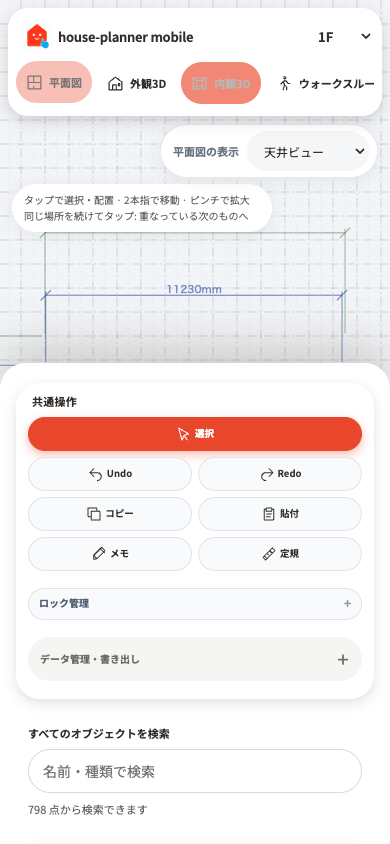
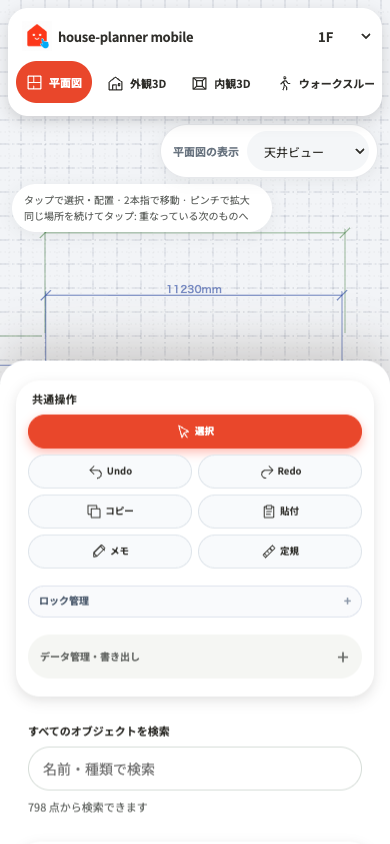
天井の選択を天井の高さで見せ、天井範囲にテクスチャを貼れるようにする
**天井範囲を選ぶと、枠と「選択中」の札だけが床に出ていた。** 3Dの選択表示は
getSelectionBox3D が作る箱から枠・札・移動ギズモを組み立てるが、天井範囲を
ほかのアイテムと同じ「床から elev」の式で扱っていたため、天井を選んでいるのに
選択のUIが床に残っていた。

- 天井範囲だけは天井面から箱を作る。段差の立ち上がり(天井面 ⇔ 段差の面)を包む
  厚みにし、段差が浅いときも掴めるよう最低60mmを残す。
- 「選択中」の札は範囲の下へ吊る。天井のものは下から見るので、上に出すと
  天井裏に隠れて読めない。移動ギズモも下側へ出す(掴む矢印が面の向こう側に
  行かないように)。ドラッグの基準面も同じ位置にそろえた(ずれると掴んだ矢印と
  動く量が食い違う)。

**天井範囲にテクスチャを設定できるようにした。** 天井を凝る施主ほど仕上げを
選ぶので、色だけでは足りない。

- 設定欄に「仕上げテクスチャ」(画像の選択・解除・左右反転・上下反転)を追加。
  部屋の天井仕上げと同じ道具立て(selectedTextureUploadHtml / uploadTex)を使う。
- 画像は色より優先する(部屋の天井仕上げと同じ決まり)。タイルの大きさも部屋の
  天井と同じ CEILING_TEXTURE_TILE_M。ここで別の数を持ち込むと、同じ画像が
  段差の中だけ違う大きさで出る。
- 段差の立ち上がり(見付け)は色のまま。細い帯へ画像を引き伸ばすと柄が溶けて、
  かえって納まりが読めなくなる。

検査(tools/tests/ceiling-designer.browser.mjs):
- 選択枠の上端が天井面にあること、厚みが段差と同じこと、床のそばに出ていないこと。
  天井範囲の枝を外すと「上端 1.18m / 天井面 2.93m」で落ちることを確認。
- 天井範囲の面に画像が乗ること、立ち上がりには乗らないこと、設定欄に入口が
  あること、保存されること。テクスチャの枝を外すと落ちることを確認。

diff --git a/assets/js/ceiling-designer.js b/assets/js/ceiling-designer.js
@@ -7,15 +7,33 @@ function fixtures(){return DATA.items.filter(it=>it.floor===ST.floor&&(isLightIt
 function ceilingGroup(r,ceilY,mat,holes,profile){
  if(profile||!areas(r).length)return buildRoomCeilingMesh(r,ceilY,mat,holes,profile);
  const inset=typeof usesFinishedHeightModel==='function'&&usesFinishedHeightModel()?0:.012;
+ // 天井範囲の見えがかり。テクスチャを設定したらそれを貼り、無ければ色で塗る
+ // (部屋の天井仕上げと同じ決まり: 画像が優先)。タイルの大きさも部屋の天井と
+ // 同じ CEILING_TEXTURE_TILE_M。ここで別の数を持ち込むと、同じ画像が段差の
+ // 中だけ違う大きさで出る。
+ const faceMaterial=(base,a,w,d)=>{
+  const m=base.clone();m.side=THREE.DoubleSide;
+  if(a.texture&&typeof getTexture3D==='function'){
+   const tex=cloneRepeatReadyTexture(getTexture3D(a.texture));
+   if(tex){tex.wrapS=tex.wrapT=THREE.RepeatWrapping;
+    setTextureRepeatNoDistort(tex,w,d,CEILING_TEXTURE_TILE_M);
+    applyTextureFlip(tex,{textureFlipX:a.textureFlipX,textureFlipY:a.textureFlipY});
+    m.map=tex;m.color.set(0xffffff);return m;}
+  }
+  m.map=null;m.color.set(a.color||'#eee8dd');return m;
+ };
  const group=new THREE.Group();group.userData={b:true,ceiling:true,roomId:r.id};const aa=areas(r);const all=(holes||[]).slice();
  aa.forEach(a=>all.push([{x:(r.x+a.x)*U,z:(r.y+a.y)*U},{x:(r.x+a.x+a.w)*U,z:(r.y+a.y)*U},{x:(r.x+a.x+a.w)*U,z:(r.y+a.y+a.d)*U},{x:(r.x+a.x)*U,z:(r.y+a.y+a.d)*U}]));
  const base=buildRoomCeilingMesh(r,ceilY,mat,all,null);if(active())mark3DSelectable(base,r,'room');group.add(base);
  aa.forEach(a=>{
-  const m=mat.clone();m.map=null;m.color.set(a.color||'#eee8dd');m.side=THREE.DoubleSide;
+  const m=faceMaterial(mat,a,a.w*U,a.d*U);
+  // 段差の立ち上がり(見付け)は色のまま。面に貼った画像を細い帯へ引き伸ばすと
+  // 柄が溶けて、かえって納まりが読めなくなる。
+  const fascia=m.map?faceMaterial(mat,{color:a.color},0,0):m;
   const x=(r.x+a.x+a.w/2)*U,z=(r.y+a.y+a.d/2)*U,w=a.w*U,d=a.d*U,y=ceilY+a.offset*U-inset;
   const face=new THREE.Mesh(new THREE.PlaneGeometry(w,d),m);face.rotation.x=Math.PI/2;face.position.set(x,y,z);face.userData={b:true,ceiling:true,roomId:r.id,ceilingAreaId:a.id};const ref=DATA.items.find(it=>it.type==='ceiling-area'&&it.id===a.id);if(ref)mark3DSelectable(face,ref,'item');group.add(face);
   const h=Math.abs(a.offset)*U,mid=(ceilY-inset+y)/2;
-  [[x-w/2,z,.006,d],[x+w/2,z,.006,d],[x,z-d/2,w,.006],[x,z+d/2,w,.006]].forEach(p=>{const side=new THREE.Mesh(new THREE.BoxGeometry(p[2],h,p[3]),m);side.position.set(p[0],mid,p[1]);side.userData={b:true,ceiling:true,roomId:r.id,ceilingAreaId:a.id};if(ref)mark3DSelectable(side,ref,'item');group.add(side);});
+  [[x-w/2,z,.006,d],[x+w/2,z,.006,d],[x,z-d/2,w,.006],[x,z+d/2,w,.006]].forEach(p=>{const side=new THREE.Mesh(new THREE.BoxGeometry(p[2],h,p[3]),fascia);side.position.set(p[0],mid,p[1]);side.userData={b:true,ceiling:true,roomId:r.id,ceilingAreaId:a.id};if(ref)mark3DSelectable(side,ref,'item');group.add(side);});
  });return group;
 }
 function active(){return !!ST.ceilingView&&(ST.view==='2d'||ST.view==='3d-int');}
@@ -64,7 +82,12 @@ function props(it){
  document.getElementById('props-title').textContent='天井範囲 の設定';
  let html=selectedLockControlHtml(it)+'<div class="ph">天井の範囲</div>';
  [['x','X位置'],['y','Y位置'],['w','幅'],['d','奥行'],['offset','段差（下げは負）']].forEach(([key,label])=>{html+='<div class="pr"><label class="pl">'+label+' mm</label><input class="pi" data-ceiling-field="'+key+'" type="number" step="10" value="'+(Math.round(it[key]*100)/100)+'" onchange="updateSelectedProp(\''+key+'\',Number(this.value))"></div>';});
- html+='<div class="pr"><label class="pl">仕上げ色</label><input class="pi" type="color" value="'+(it.color||'#e4ddd1')+'" onchange="updateSelectedProp(\'color\',this.value)"></div><p class="model-finish-note">通常のハンドルで移動・サイズ変更できます。照明の取付高さは天井の変更に追従します。</p>'+selectedDeleteButtonHtml();
+ html+='<div class="pr"><label class="pl">仕上げ色</label><input class="pi" type="color" value="'+(it.color||'#e4ddd1')+'" onchange="updateSelectedProp(\'color\',this.value)"></div>'
+  +selectedTextureUploadHtml(it,'仕上げテクスチャ')
+  +(it.texture?'<button class="pbtn sec" onclick="updateSelectedProp(\'texture\',null)">テクスチャ解除</button>':'')
+  +selectedTextureFlipControlsHtml(it)
+  +(it.texture?'<div class="lock-status-note">テクスチャを設定しているあいだ、仕上げ色は段差の立ち上がりにだけ効きます（部屋の天井仕上げと同じ決まりです）。</div>':'')
+  +'<p class="model-finish-note">通常のハンドルで移動・サイズ変更できます。照明の取付高さは天井の変更に追従します。</p>'+selectedDeleteButtonHtml();
  setPropsBodyHtml(document.getElementById('props-body'),html,it);
  const name=document.getElementById('mob-prop-name');if(name)name.textContent='天井範囲';
  const size=document.getElementById('mob-prop-size');if(size)size.textContent=it.w+' × '+it.d+' mm';

diff --git a/index.html b/index.html
@@ -6230,7 +6230,9 @@ function add3DSelectionMarkerFor(target,primary){
   var labelTex=new THREE.CanvasTexture(labelCanvas);
   labelTex.colorSpace=THREE.SRGBColorSpace;
   var label=new THREE.Sprite(new THREE.SpriteMaterial({map:labelTex,transparent:true,depthTest:false}));
-  label.position.set(center.x,box.max.y+0.42,center.z);
+  // 天井に付くものは下から見る。札を上に出すと天井裏に隠れて読めない。
+  var labelY=(target.type==='ceiling-area')?box.min.y-0.42:box.max.y+0.42;
+  label.position.set(center.x,labelY,center.z);
   label.scale.set(1.15,0.38,1);
   label.userData={b:true,selectionHelper:true};
   group.add(label);
@@ -6253,7 +6255,9 @@ function add3DMoveGizmo(){
   if(box.isEmpty()) return;
   var center=box.getCenter(new THREE.Vector3());
   var size=box.getSize(new THREE.Vector3());
-  center.y=Math.max(box.max.y+0.08,center.y);
+  // 天井のものは下へ、それ以外は上へ。掴む矢印が面の向こう側に出ないようにする。
+  center.y=(ST.selected.type==='ceiling-area')
+    ? Math.min(box.min.y-0.08,center.y) : Math.max(box.max.y+0.08,center.y);
   var group=new THREE.Group();
   group.userData={b:true,moveGizmo:true};
   var len=Math.max(0.55,Math.min(1.35,Math.max(size.x,size.y,size.z)*0.55));
@@ -6300,7 +6304,9 @@ function getGizmoDragBasis(axis,ref){
   var box=getSelectionBox3D(ref);
   if(box.isEmpty()) return null;
   var center=box.getCenter(new THREE.Vector3());
-  center.y=Math.max(box.max.y+0.08,center.y);
+  // add3DMoveGizmo と同じ位置。ここがずれると、掴んだ矢印と動く量が食い違う。
+  center.y=(ref&&ref.type==='ceiling-area')
+    ? Math.min(box.min.y-0.08,center.y) : Math.max(box.max.y+0.08,center.y);
   var dir=axis==='x'?new THREE.Vector3(1,0,0):(axis==='z'?new THREE.Vector3(0,0,1):new THREE.Vector3(0,1,0));
   var rect=ren.domElement.getBoundingClientRect();
   function project(v){
@@ -6413,6 +6419,23 @@ function getSelectionBox3D(ref){
     box.set(
       new THREE.Vector3(ref.x*U,ry,(ref.y||0)*U),
       new THREE.Vector3((ref.x+ref.w)*U,ry+0.12,(ref.y+ref.d)*U)
+    );
+    return box;
+  }
+  if(ref.type==='ceiling-area'){
+    // 天井範囲は天井面に貼り付く。ほかのアイテムと同じ「床から elev」の式で
+    // 箱を作ると、**天井の範囲を選んでいるのに選択枠と札だけが床に出る。**
+    // 箱は段差の立ち上がり(天井面 ⇔ 段差の面)を包む。
+    var cfl=ref.floor||1;
+    var croom=(typeof roomAtPointOnFloor==='function')
+      ? roomAtPointOnFloor(cfl,ref.x+ref.w/2,ref.y+ref.d/2) : null;
+    var ceilY=floorBaseY(cfl)+(croom?roomCeilingHeightM(croom):wallFullHeightM(cfl));
+    var faceY=ceilY+(Number(ref.offset)||0)*U;
+    var lo=Math.min(faceY,ceilY), hi=Math.max(faceY,ceilY);
+    if(hi-lo<0.06){ lo=faceY-0.03; hi=faceY+0.03; }  // 段差が浅くても掴める厚みを残す
+    box.set(
+      new THREE.Vector3(ref.x*U,lo,(ref.y||0)*U),
+      new THREE.Vector3((ref.x+ref.w)*U,hi,(ref.y+ref.d)*U)
     );
     return box;
   }

diff --git a/docs/quality-review/ceiling-designer/README.md b/docs/quality-review/ceiling-designer/README.md
@@ -7,6 +7,8 @@
 
 - 「部屋・壁・天井」カテゴリの下げ天井／折り上げ天井を使用（既存のカテゴリ開閉・項目選択・検索を共用）。部屋作成と同じ2点指定。通常の選択・サイズ変更ハンドル・右側設定・コピー／貼付・削除・Undo／Redoを使用。
 - 照明・ファンは既存の住設メニュー。天井段差の編集時は器具の相対的な取付高さを保持する。
+- 天井範囲の仕上げは色とテクスチャ。部屋の天井仕上げと同じで画像が色より優先し、タイルの大きさも部屋の天井と同じ。段差の立ち上がり（見付け）は色のまま — 細い帯へ画像を引き伸ばすと柄が溶けて納まりが読めなくなるため。
+- 選択の枠・札・移動ギズモは天井面に付く（床基準の箱で作ると、天井を選んでいるのに枠と札だけ床に出る）。札は下から読めるように範囲の下へ吊る。
 - 内観3Dでも既存の選択・移動ギズモ・設定パネルを使用。天井面をクリックして範囲や照明を追加できる。
 - 天井範囲は通常のDATA.items内のceiling-area。旧room.ceilingAreasは天井ビューへ入った際に座標を保って移行する。既存配置を削除しない。
 - 平天井内の矩形に対応。段差10〜800mm、壁との離隔5mm。重複・階段吹抜け・階高超過は拒否。
